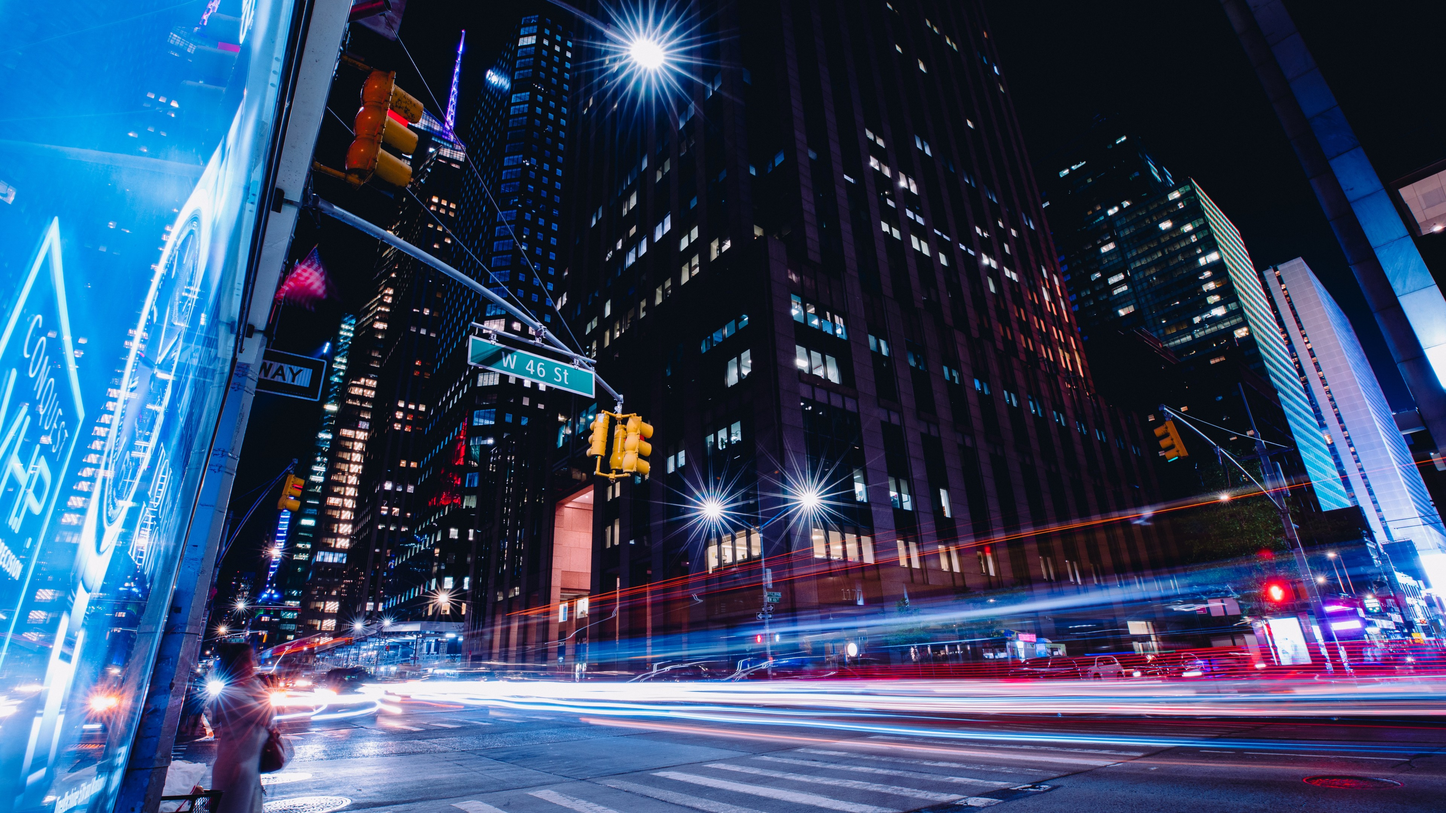
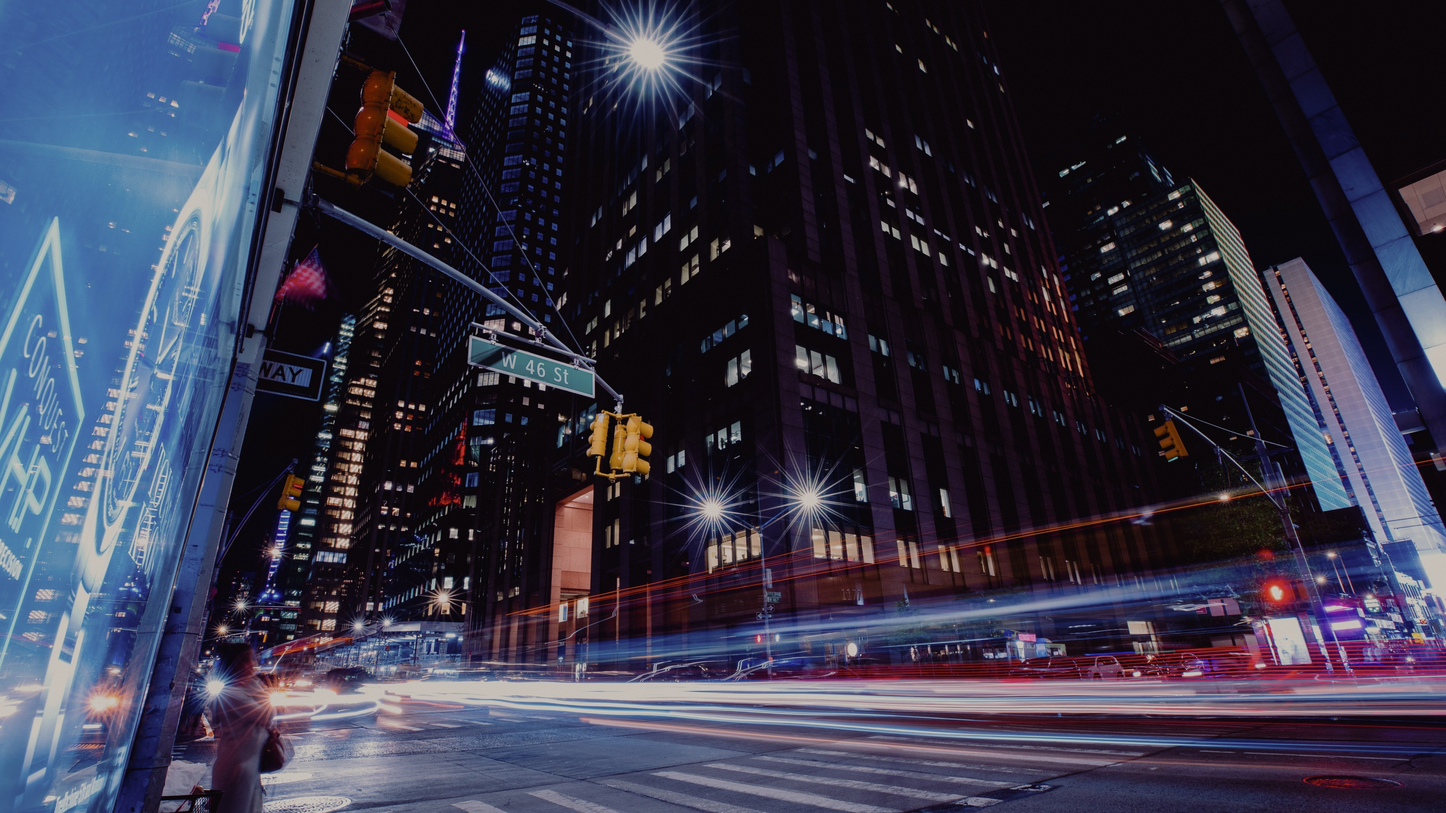
作業前（ブログ）

diff --git a/app/assets/stylesheets/articles.scss b/app/assets/stylesheets/articles.scss
@@ -1,3 +1,7 @@
 // Place all the styles related to the articles controller here.
 // They will automatically be included in application.css.
 // You can use Sass (SCSS) here: http://sass-lang.com/
+.background{
+  background:url('/under_construction.png') ;
+  height: 100vh;
+}
